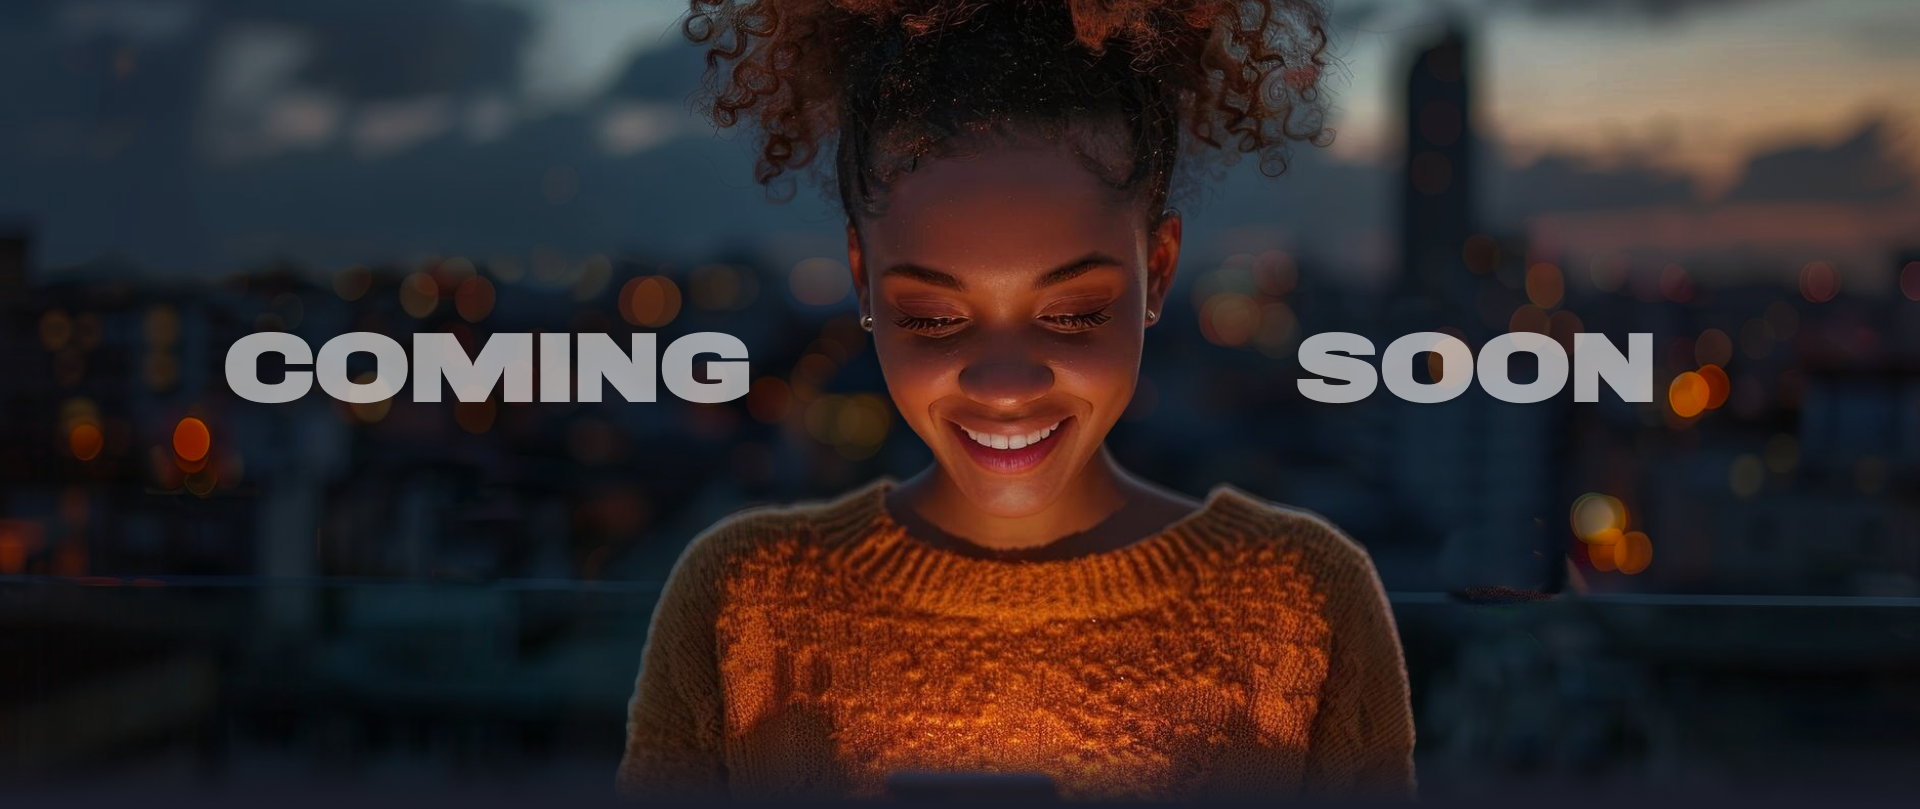
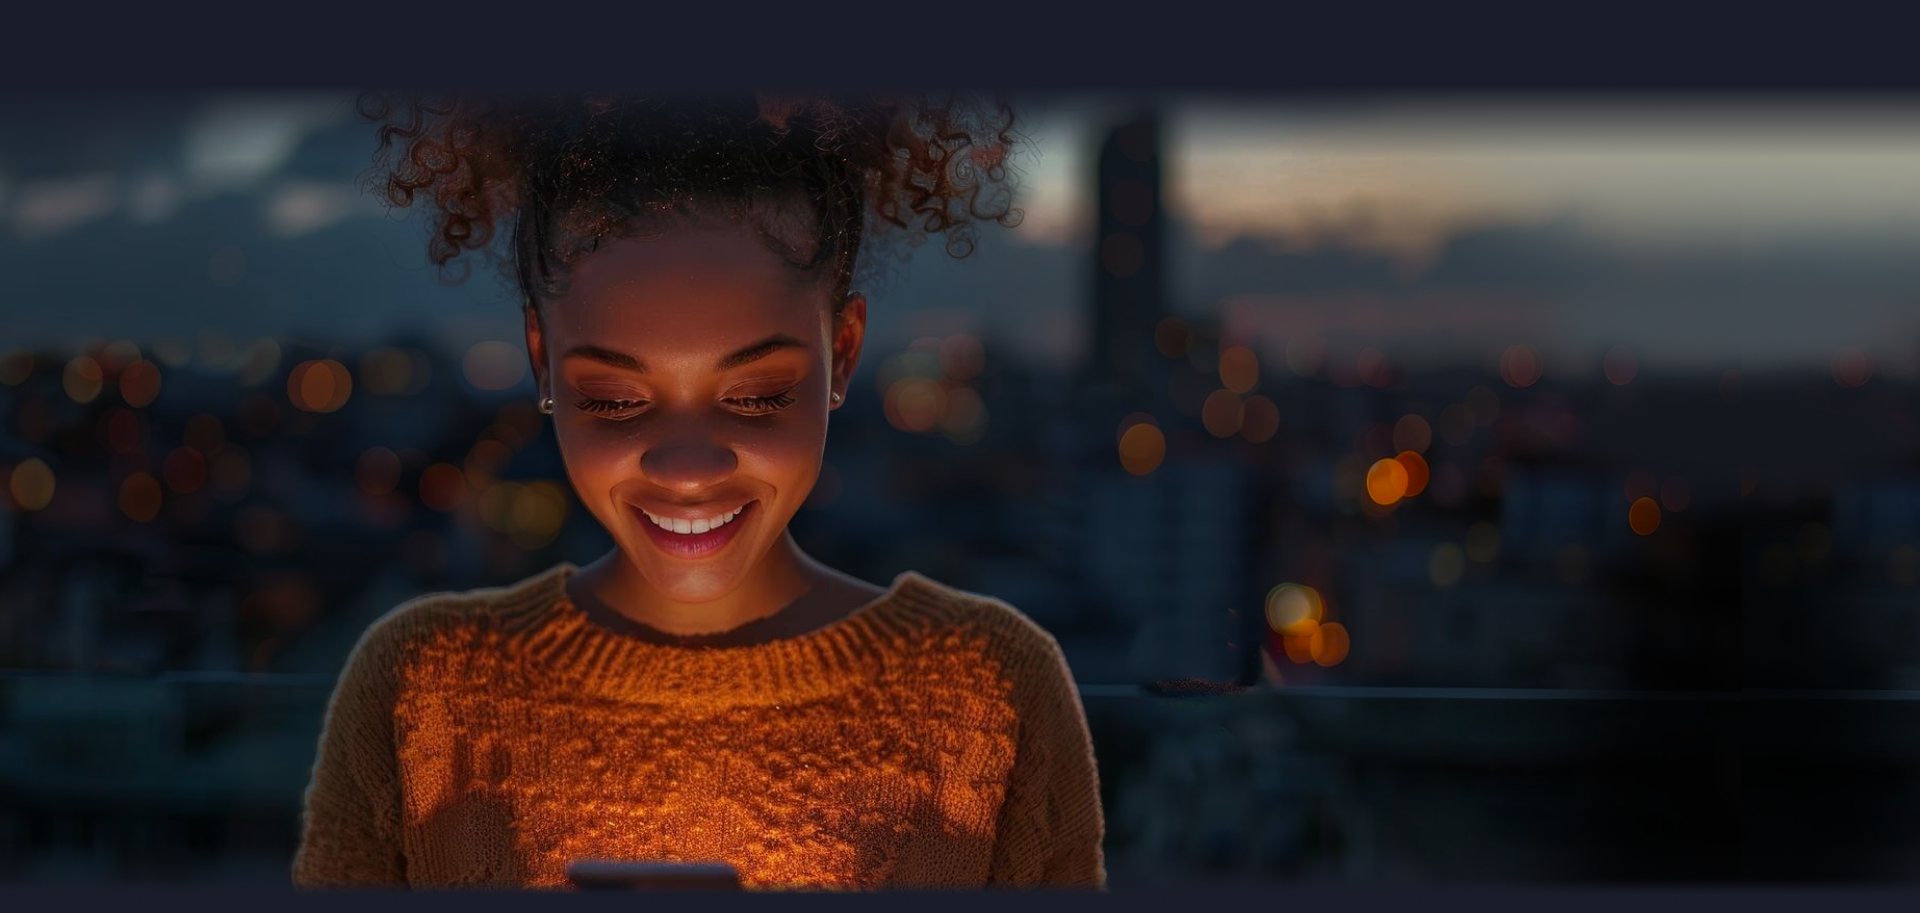
changes

diff --git a/app/css/about-main.css b/app/css/about-main.css
@@ -1,6 +1,7 @@
 .main {
   width: 100svw;
   height: auto;
+  position: relative;
 }
 .main_bgimg {
   width: 100svw;
@@ -63,10 +64,68 @@
 .mob-img {
   display: none;
 }
+
+.main-text-image-link {
+  position: absolute;
+  top: 15%;
+  right: 5%;
+  display: flex;
+  align-items: center;
+  justify-content: center;
+  flex-direction: column;
+}
+.main-title {
+  color: #fff;
+  font-family: 'Roboto Flex', sans-serif;
+  font-size: 64px;
+  font-weight: 1000;
+  line-height: 140%;
+  letter-spacing: 1.262px;
+  text-transform: uppercase;
+}
+.main-subtitle {
+  color: #fff;
+  text-align: center;
+  font-family: 'Roboto', sans-serif;
+  font-size: 24px;
+  font-weight: 400;
+  line-height: 150%;
+}
+.main-img {
+  max-width: 715px;
+  height: auto;
+}
+.play-icon {
+  position: absolute;
+  bottom: 81px;
+  right: 75px;
+  transition: all 0.3s;
+}
+.play-icon:hover {
+  transform: scale(1.1);
+  opacity: 0.8;
+  transition: all 0.3s;
+  cursor: pointer;
+}
+.img-for-mob-add {
+  display: none;
+}
+
 @media (max-width: 1760px) {
   .main_texts-button_wrapper {
     padding-left: 150px;
     padding-right: 150px;
+  }
+  .main-img {
+    max-width: 600px;
+    height: auto;
+  }
+  .main-text-image-link {
+    top: 13%;
+  }
+  .play-icon {
+    right: 50px;
+    bottom: 80px;
   }
 }
 @media (max-width: 1560px) {
@@ -74,20 +133,59 @@
     padding-left: 50px;
     padding-right: 50px;
   }
+  .main-img {
+    max-width: 500px;
+    height: auto;
+  }
 }
-@media (max-width: 1110px) {
+@media (max-width: 1200px) {
   .main_texts-button_wrapper {
     padding-left: 24px;
     padding-right: 24px;
   }
+  .main-text-image-link {
+    top: 11%;
+  }
 }
-@media (max-width: 1024px) {
+@media (max-width: 1124px) {
   .main_texts-button_wrapper {
     padding-left: 24px;
     padding-right: 24px;
     flex-direction: column;
     align-items: center;
     gap: 32px;
+  }
+  .img-for-mob-add {
+    position: relative;
+    display: flex;
+    align-items: center;
+    justify-content: center;
+    width: 309px;
+    height: 238px;
+    margin: 0 auto;
+  }
+  .play-icon-mob {
+    position: absolute;
+    width: 42px;
+    height: 42px;
+    right: 20px;
+    bottom: 20px;
+  }
+  .img-mob-phones {
+    width: 309px;
+    height: 238px;
+  }
+  .play-icon {
+    display: none;
+  }
+  .main-img {
+    display: none;
+  }
+  .main-text-image-link {
+    top: initial;
+    right: 0;
+    left: 0;
+    bottom: 33px;
   }
   .main_texts_button {
     align-self: center;
@@ -107,5 +205,18 @@
   }
   .main_texts_button {
     width: 279px;
+  }
+  .main-text-image-link {
+    bottom: 640px;
+  }
+}
+
+@media (max-width: 680px) {
+  .main-title {
+    font-size: 22px;
+    margin-bottom: 5px;
+  }
+  .main-subtitle {
+    font-size: 16px;
   }
 }

diff --git a/app/index.html b/app/index.html
@@ -21,9 +21,19 @@
     <section class="main">
       <img src="img/main/image.png" alt="bgimage" class="main_bgimg desk-img" />
       <img src="img/main/image-mob.png" alt="bgimage" class="main_bgimg mob-img" />
+      <div class="main-text-image-link">
+        <p class="main-title">Coming Soon</p>
+        <p class="main-subtitle">Ways2Well AI-Based Care App</p>
+        <img src="img/main/abapp.png" alt="phones image" class="main-img" />
+        <img src="img/main/play.png" alt="play icon" class="play-icon" />
+      </div>
 
       <div class="main_texts-button_wrapper">
         <div class="main_texts_texts">
+          <div class="img-for-mob-add">
+            <img src="img/main/abapp.png" alt="img mob" class="img-mob-phones" />
+            <img src="img/main/play.png" alt="play icon" class="play-icon-mob" />
+          </div>
           <p class="main_texts_texts_title">The Ways2Well mobile app</p>
           <p class="main_texts_texts_text">
             The Ways2Well mobile app puts your health at your fingertips. Simplify your path to
@@ -58,9 +68,8 @@
     </section>
     <section class="aboutapp">
       <div class="aboutapp_wrapper">
-        <img src="img/about-app/abapp.png" alt="phones image" class="aboutapp_image" />
+        <p class="about-app_title">YOUR WELLNESS, SIMPLIFIED</p>
         <div class="aboutapp_content">
-          <p class="about-app_title">YOUR WELLNESS, SIMPLIFIED</p>
           <p class="about-app_text">
             The Ways2Well mobile app is designed to deliver a personalized, convenient, and
             effective wellness experience.

diff --git a/app/css/aboutapp.css b/app/css/aboutapp.css
@@ -3,10 +3,10 @@
   padding-bottom: 165px;
 }
 .aboutapp_wrapper {
-  padding-left: 47px;
+  padding-left: 250px;
 
   display: flex;
-  align-items: center;
+
   justify-content: center;
   gap: 124px;
 }
@@ -28,6 +28,8 @@
   letter-spacing: 1px;
   text-transform: uppercase;
   margin-bottom: 42px;
+  max-width: 425px;
+  width: 100%;
 }
 .about-app_text {
   color: #fff;
@@ -92,7 +94,7 @@
     gap: 40px;
   }
   .aboutapp_wrapper {
-    padding-left: 24px;
+    padding-left: 150px;
     padding-right: 24px;
   }
 }
@@ -101,7 +103,7 @@
     max-width: 600px;
   }
   .aboutapp_wrapper {
-    gap: 0;
+    gap: 40px;
   }
 }
 @media (max-width: 1430px) {
@@ -111,6 +113,10 @@
     justify-content: center;
     max-width: 850px;
     margin: 0 auto;
+    padding-left: 50px;
+  }
+  .about-app_title {
+    max-width: initial;
   }
   .about-app_items_wrapper {
     align-items: center;
@@ -119,8 +125,13 @@
 }
 @media (max-width: 860px) {
   .aboutapp {
-    padding-top: 50px;
+    padding-top: 80px;
     padding-bottom: 50px;
+  }
+
+  .aboutapp_wrapper {
+    padding-left: 24px;
+    gap: 0;
   }
   .about-app_title {
     font-size: 28px;
